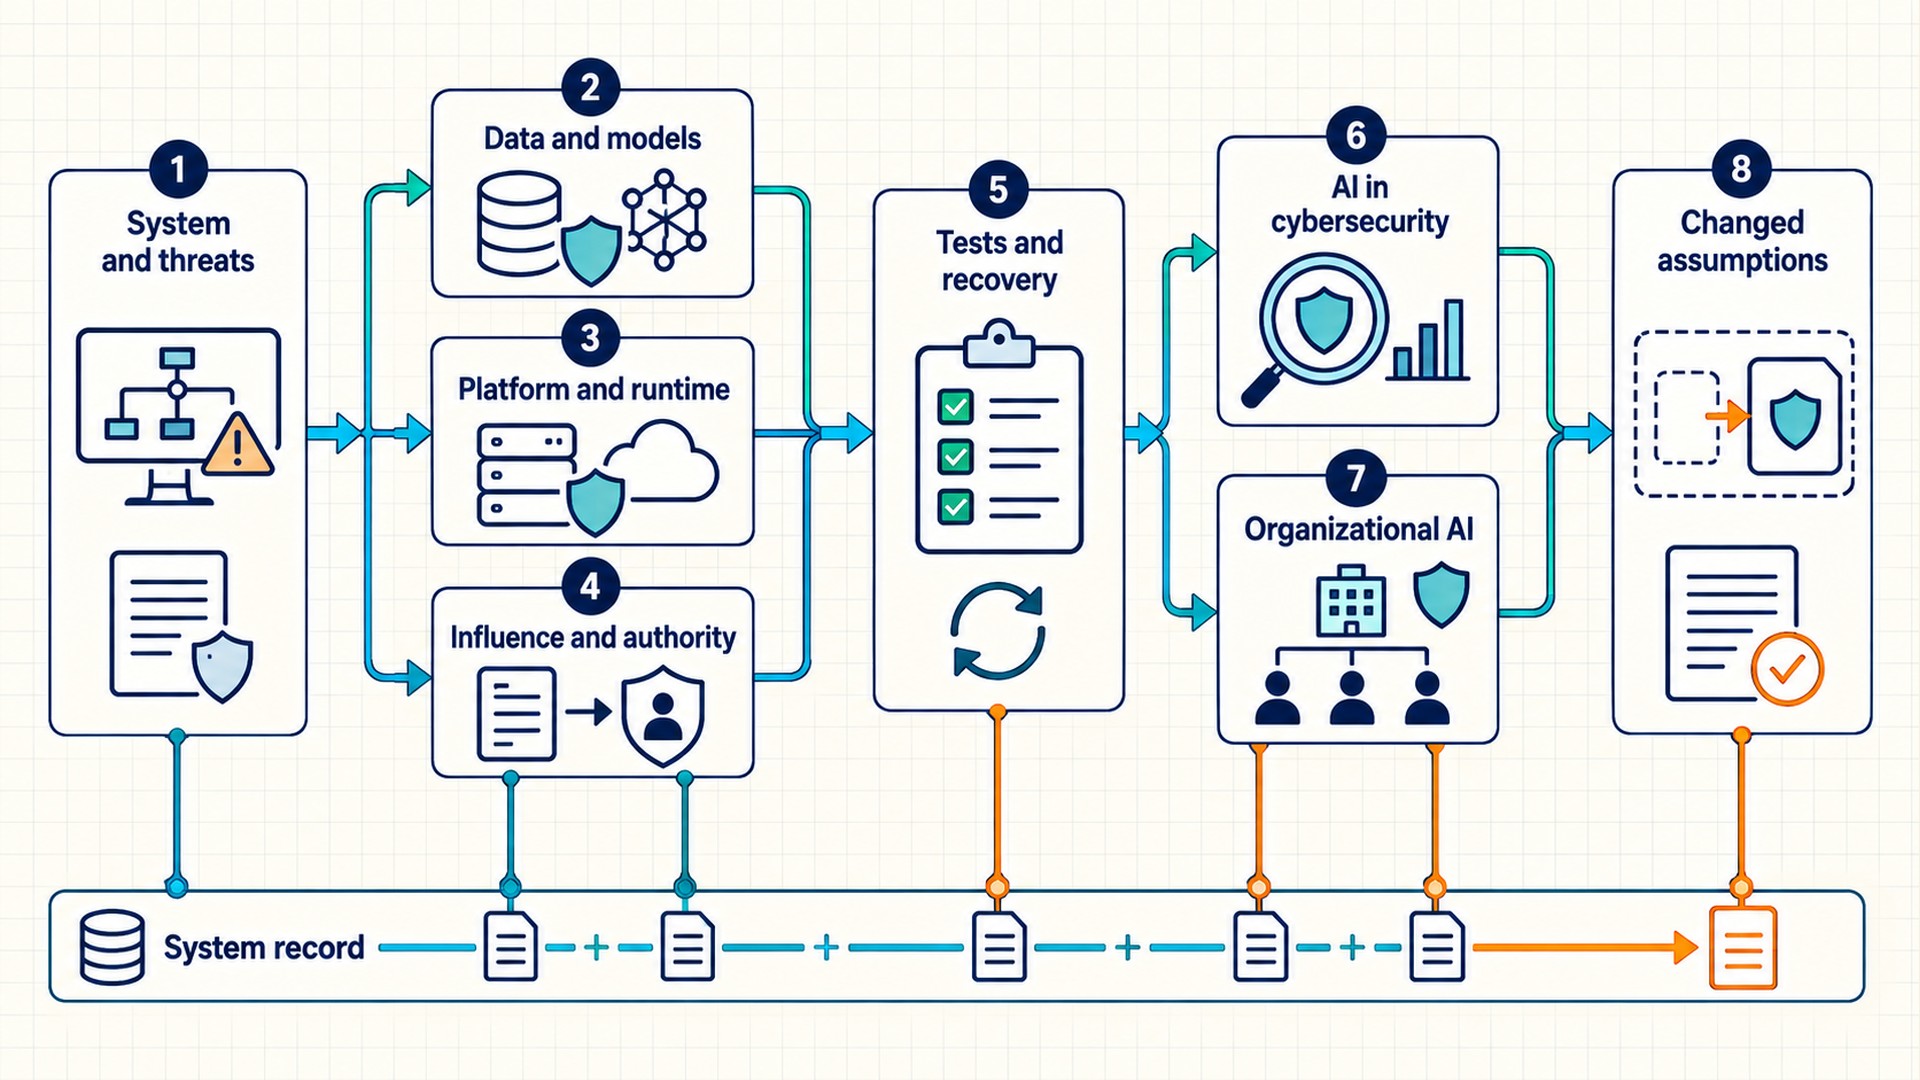
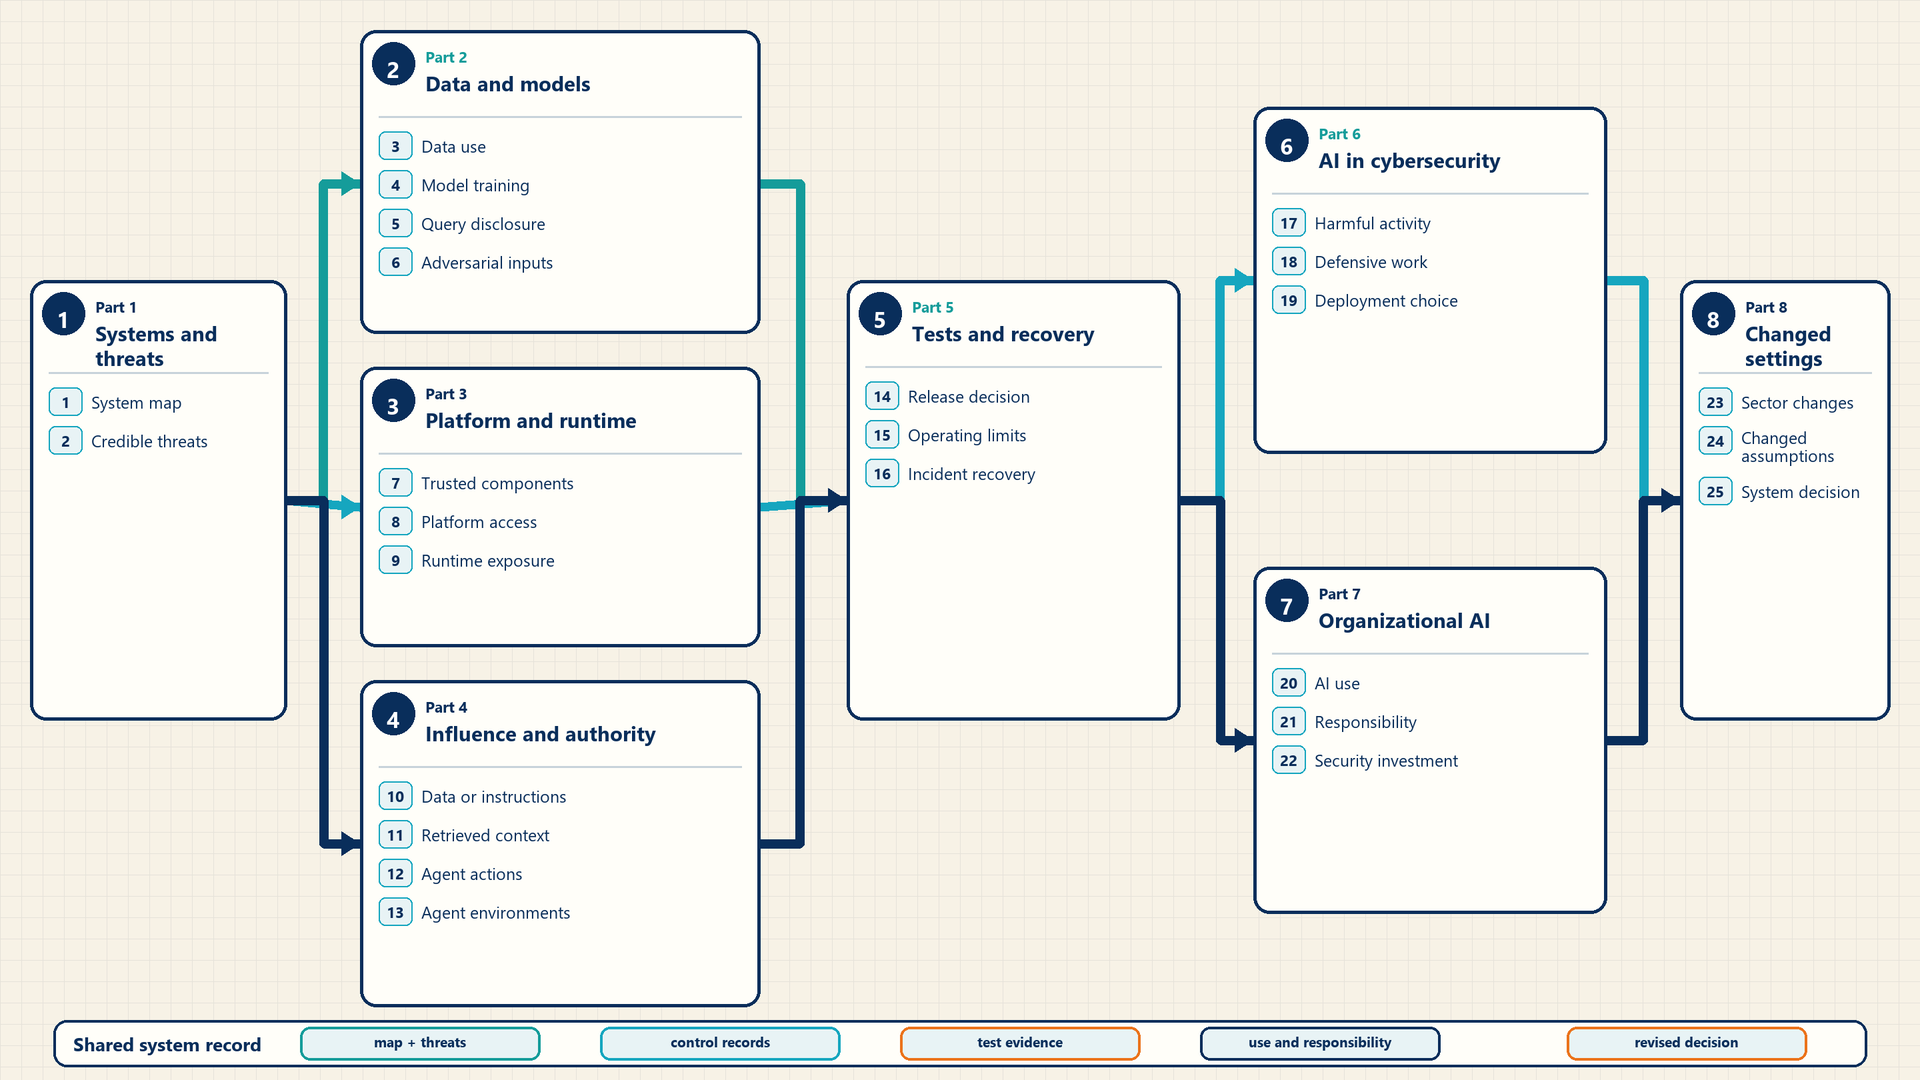
Publish course website from e72df2e7a02988f0fd1395721ca24fa9c0945cc4

Changed region(s): [[0.0, 0.0, 1.0, 1.0]]

diff --git a/ai-security/frontmatter/ch-ais-front.html b/ai-security/frontmatter/ch-ais-front.html
@@ -393,8 +393,9 @@ ul.task-list li input[type="checkbox"] {
   <ul>
   <li><a href="#sec-ais-front-s01" id="toc-sec-ais-front-s01" class="nav-link active" data-scroll-target="#sec-ais-front-s01">Shared system settings</a></li>
   <li><a href="#sec-ais-front-s02" id="toc-sec-ais-front-s02" class="nav-link" data-scroll-target="#sec-ais-front-s02">Book map</a></li>
+  <li><a href="#sec-ais-front-s06" id="toc-sec-ais-front-s06" class="nav-link" data-scroll-target="#sec-ais-front-s06">Book contents</a></li>
   <li><a href="#sec-ais-front-s03" id="toc-sec-ais-front-s03" class="nav-link" data-scroll-target="#sec-ais-front-s03">Learning path</a></li>
-  <li><a href="#sec-ais-front-s04" id="toc-sec-ais-front-s04" class="nav-link" data-scroll-target="#sec-ais-front-s04">Scope limits</a></li>
+  <li><a href="#sec-ais-front-s04" id="toc-sec-ais-front-s04" class="nav-link" data-scroll-target="#sec-ais-front-s04">Scope boundaries</a></li>
   <li><a href="#sec-ais-front-s05" id="toc-sec-ais-front-s05" class="nav-link" data-scroll-target="#sec-ais-front-s05">Evidence and references</a></li>
   </ul>
 </nav>
@@ -441,13 +442,13 @@ ul.task-list li input[type="checkbox"] {
 <section id="sec-ais-front-s02" class="level2">
 <h2 class="anchored" data-anchor-id="sec-ais-front-s02">Book map</h2>
 <p>Part 1 supplies the common system and threat description. Parts 2 through 4 examine different protection surfaces. Part 5 tests the resulting claims and follows failures into operation and recovery. Parts 6 and 7 apply the same method to cybersecurity work and organizational decisions. Part 8 checks which conclusions remain valid in a changed setting. Together, the Parts extend one reviewable system record.</p>
-<div id="fig-ais-front-f01" class="quarto-float quarto-figure quarto-figure-center anchored" alt="A branching map of eight AI security Parts. Part 1 leads to the data and model, platform and runtime, and influence and authority branches. They join at tests and recovery, then lead through cybersecurity and organizational AI to changed assumptions. A system record grows along the lower edge.">
+<div id="fig-ais-front-f01" class="quarto-float quarto-figure quarto-figure-center anchored" alt="A complete map of eight Parts and 25 chapters. Part 1 branches into data and models, platform and runtime, and influence and authority. These branches join at tests and recovery, continue through cybersecurity and organizational AI, and end with changed settings and a revised system decision.">
 <figure class="quarto-float quarto-float-fig figure">
 <div aria-describedby="fig-ais-front-f01-caption-0ceaefa1-69ba-4598-a22c-09a6ac19f8ca">
-<img src="../assets/fig-ais-front-f01.png" class="img-fluid figure-img" style="width:6.35in" alt="A branching map of eight AI security Parts. Part 1 leads to the data and model, platform and runtime, and influence and authority branches. They join at tests and recovery, then lead through cybersecurity and organizational AI to changed assumptions. A system record grows along the lower edge.">
+<img src="../assets/fig-ais-front-f01.png" class="img-fluid figure-img" style="width:6.35in" alt="A complete map of eight Parts and 25 chapters. Part 1 branches into data and models, platform and runtime, and influence and authority. These branches join at tests and recovery, continue through cybersecurity and organizational AI, and end with changed settings and a revised system decision.">
 </div>
 <figcaption class="quarto-float-caption-bottom quarto-float-caption quarto-float-fig" id="fig-ais-front-f01-caption-0ceaefa1-69ba-4598-a22c-09a6ac19f8ca">
-Figure&nbsp;1: Part 1 fixes the system boundary and credible threats used throughout the book. Parts 2 through 4 examine data and models, platform and runtime, and influence and authority. Their control evidence meets in Part 5. Parts 6 and 7 extend the analysis to cybersecurity work and organizational decisions. Part 8 checks what remains valid when the operating assumptions change. The lower ribbon shows the system record growing across these stages.
+Figure&nbsp;1: The 25 chapters form one branching record. Part 1 supplies the system map and threat record used by the three protection branches in Parts 2 through 4. Their claims meet in Part 5 for testing and recovery. Parts 6 and 7 examine cybersecurity work and organizational decisions. Part 8 checks the result under changed settings.
 </figcaption>
 </figure>
 </div>
@@ -461,6 +462,21 @@ Figure&nbsp;1: Part 1 fixes the system boundary and credible threats used throug
 <li><strong>Governing organizational AI.</strong> Which uses exist, who is responsible, and which investments reduce risk? The result is an inventory with responsibility and investment records.</li>
 <li><strong>Adapting controls to change.</strong> Which claims remain valid when the sector or technical setting changes? The result is a record of changed assumptions and a complete system decision.</li>
 </ol>
+</section>
+<section id="sec-ais-front-s06" class="level2">
+<h2 class="anchored" data-anchor-id="sec-ais-front-s06">Book contents</h2>
+<p>The map shows the dependency between Parts. The contents below list every chapter under its Part.</p>
+<ul>
+<li><strong>Part 1: Mapping systems and threats.</strong> Chapter 1: Mapping the AI system; Chapter 2: Defining credible threats.</li>
+<li><strong>Part 2: Protecting data and models.</strong> Chapter 3: Controlling data use; Chapter 4: Protecting model training; Chapter 5: Limiting query disclosure; Chapter 6: Resisting adversarial inputs.</li>
+<li><strong>Part 3: Securing platform and runtime.</strong> Chapter 7: Selecting trusted components; Chapter 8: Limiting platform access; Chapter 9: Containing runtime exposure.</li>
+<li><strong>Part 4: Limiting influence and authority.</strong> Chapter 10: Separating data from instructions; Chapter 11: Controlling retrieved context; Chapter 12: Authorizing agent actions; Chapter 13: Confining agent environments.</li>
+<li><strong>Part 5: Testing controls and recovery.</strong> Chapter 14: Deciding whether to release; Chapter 15: Keeping operations within limits; Chapter 16: Recovering from AI incidents.</li>
+<li><strong>Part 6: Assessing AI in cybersecurity.</strong> Chapter 17: AI’s role in harmful activity; Chapter 18: AI in defensive work; Chapter 19: Choosing a viable deployment.</li>
+<li><strong>Part 7: Governing organizational AI.</strong> Chapter 20: Managing organizational AI use; Chapter 21: Assigning responsibility; Chapter 22: Choosing security investments.</li>
+<li><strong>Part 8: Adapting controls to change.</strong> Chapter 23: Adapting controls by sector; Chapter 24: Security under changed assumptions; Chapter 25: Reviewing a system decision.</li>
+<li><strong>Appendix: <a href="../appendices/ch-ais-app-glossary.html">Glossary</a>.</strong> Definitions of terms used across the book.</li>
+</ul>
 </section>
 <section id="sec-ais-front-s03" class="level2">
 <h2 class="anchored" data-anchor-id="sec-ais-front-s03">Learning path</h2>
@@ -485,7 +501,7 @@ Figure&nbsp;2: The system security route for application and platform engineers 
 <p>Within each chapter, the opening setting fixes the relevant boundary. The sections then connect a failure mechanism to attacker access, a control, the evidence that can test it, and the limit that remains.</p>
 </section>
 <section id="sec-ais-front-s04" class="level2">
-<h2 class="anchored" data-anchor-id="sec-ais-front-s04">Scope limits</h2>
+<h2 class="anchored" data-anchor-id="sec-ais-front-s04">Scope boundaries</h2>
 <p>The guide concerns the security of AI systems and the security effects of using AI. It introduces model training, generation, retrieval, and agents only to explain the relevant attack and control mechanisms. Its scope excludes foundation model development and general cloud administration, as well as the full lifecycle for developing secure software.</p>
 <p>Legal and regulatory duties differ by jurisdiction and sector. The chapters identify where those duties change a security decision, but they do not provide legal advice. Examples state their assumptions and do not claim that one control fits every organization or deployment.</p>
 </section>

diff --git a/ai-security/parts/part-ais-p01.html b/ai-security/parts/part-ais-p01.html
@@ -419,13 +419,13 @@ ul.task-list li input[type="checkbox"] {
 
 <p><em>A system map and a threat model give technical and management readers the same description of the system, its operators, attacker access, and possible harm.</em></p>
 <p>An employee support assistant provides the running example. The organization operates identity, document, and policy services and may use an external or internal model. Mapping those components comes before adding attacker access, failure paths, controls, evidence, and remaining risk.</p>
-<div id="fig-ais-p01-f01" class="quarto-float quarto-figure quarto-figure-center anchored" alt="An employee uses a brass and glass assistant system. Identity, document, application, external model, policy, action, and evidence mechanisms are visible, while another person alters one outside input path and a reviewer inspects the recorded result.">
+<div id="fig-ais-p01-f01" class="quarto-float quarto-figure quarto-figure-center anchored" alt="A technical diagram places a system setting to the left of a solid Part 1 scope boundary. Inside the boundary, Chapter 1 produces a system map and Chapter 2 produces a threat record. Their combined record flows to a separate dashed region for later Parts.">
 <figure class="quarto-float quarto-float-fig figure">
 <div aria-describedby="fig-ais-p01-f01-caption-0ceaefa1-69ba-4598-a22c-09a6ac19f8ca">
-<img src="../assets/fig-ais-p01-f01.png" class="img-fluid figure-img" style="width:6.35in" alt="An employee uses a brass and glass assistant system. Identity, document, application, external model, policy, action, and evidence mechanisms are visible, while another person alters one outside input path and a reviewer inspects the recorded result.">
+<img src="../assets/fig-ais-p01-f01.png" class="img-fluid figure-img" style="width:6.35in" alt="A technical diagram places a system setting to the left of a solid Part 1 scope boundary. Inside the boundary, Chapter 1 produces a system map and Chapter 2 produces a threat record. Their combined record flows to a separate dashed region for later Parts.">
 </div>
 <figcaption class="quarto-float-caption-bottom quarto-float-caption quarto-float-fig" id="fig-ais-p01-f01-caption-0ceaefa1-69ba-4598-a22c-09a6ac19f8ca">
-Figure&nbsp;1: An employee sees one assistant, while the security review follows identity, documents, model access, action authority, outside influence, and evidence across the complete organization setting.
+Figure&nbsp;1: Part 1 turns an organization setting into two reusable outputs. Chapter 1 records components, operators, data and action paths, and available evidence. Chapter 2 adds attacker access, entry points, unwanted events, controls, tests, and remaining risk. Later Parts use this combined record to develop and test protections.
 </figcaption>
 </figure>
 </div>
